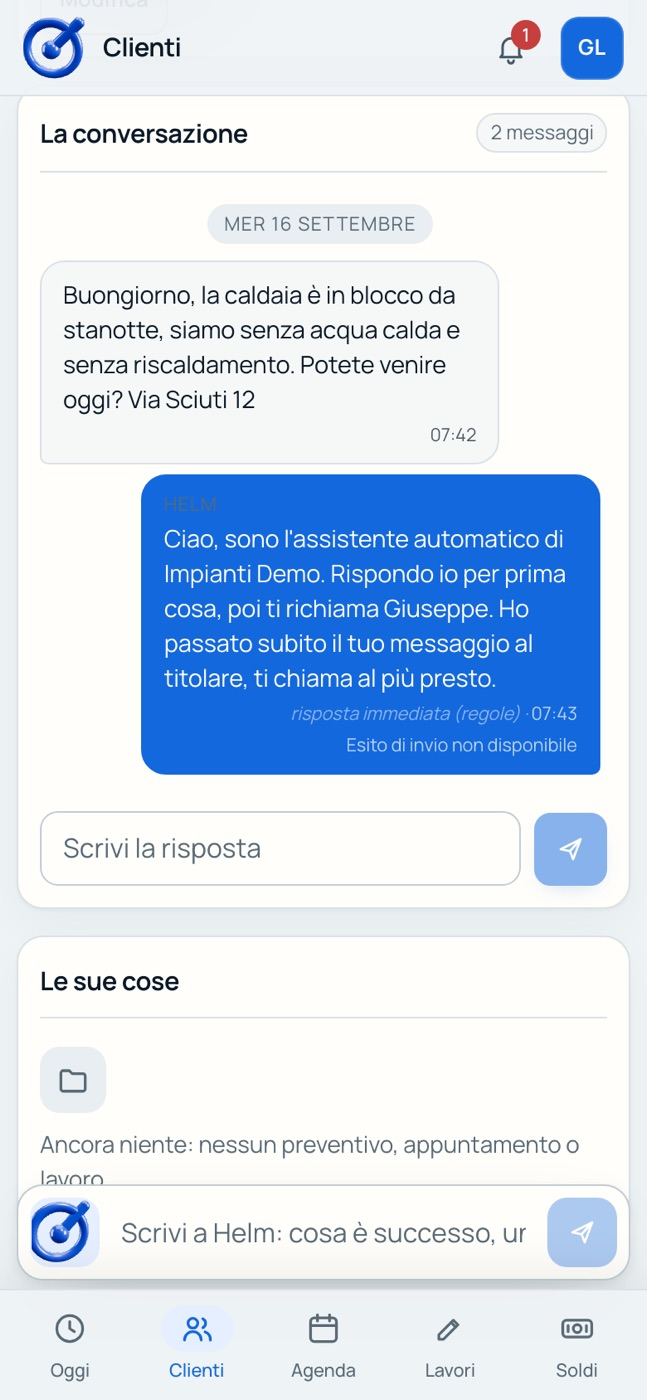
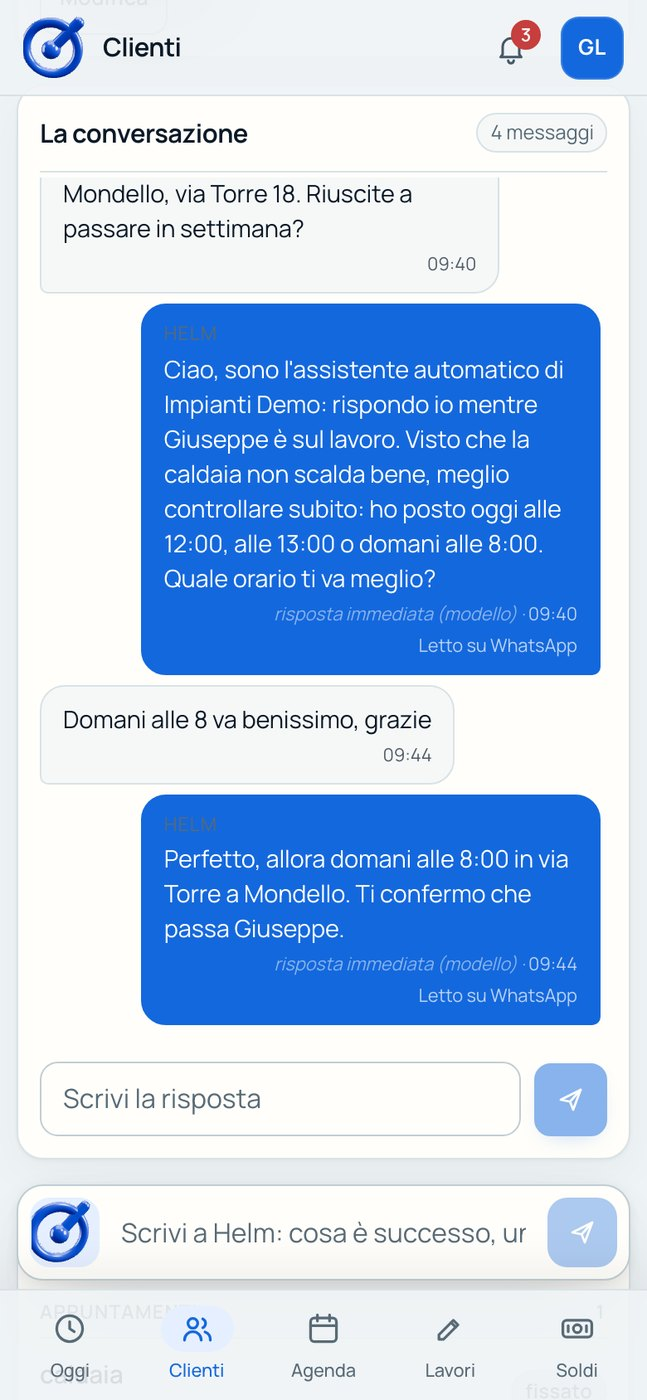
Helm risponde come una persona e fissa l'appuntamento dall'agenda
Nuova schermata del passo 01: conversazione vera fatta da Helm sui dati
di prova, con gli orari liberi proposti e l'appuntamento fissato.

diff --git a/index.html b/index.html
@@ -106,7 +106,7 @@
           <div class="muro-griglia">
             <div class="muro-col">
               <img src="assets/sistemi/helm-oggi.jpg" width="1600" height="1000" alt="" decoding="async" />
-              <img src="assets/sistemi/helm-chat-mob.jpg" width="647" height="1400" alt="" decoding="async" />
+              <img src="assets/sistemi/helm-chat-mob.jpg?v=2" width="647" height="1400" alt="" decoding="async" />
               <img src="assets/lavori/calcolatore-ral.jpg" width="1600" height="900" alt="" decoding="async" />
               <img src="assets/sistemi/casa-vacanze-mob.jpg" width="647" height="1400" alt="" decoding="async" />
             </div>
@@ -132,7 +132,7 @@
               <img src="assets/sistemi/helm-conversazione.jpg" width="1600" height="1000" alt="" decoding="async" />
               <img src="assets/sistemi/casa-vacanze-mob.jpg" width="647" height="1400" alt="" decoding="async" />
               <img src="assets/sistemi/helm-preventivi.jpg" width="1600" height="1000" alt="" decoding="async" />
-              <img src="assets/sistemi/helm-chat-mob.jpg" width="647" height="1400" alt="" decoding="async" />
+              <img src="assets/sistemi/helm-chat-mob.jpg?v=2" width="647" height="1400" alt="" decoding="async" />
             </div>
           </div>
         </div>
@@ -180,8 +180,8 @@
             <li class="passo">
               <p class="passo-n">01 · WhatsApp</p>
               <h3 class="passo-parola">Risponde.</h3>
-              <p class="passo-testo">Risponde su WhatsApp come una persona dell'azienda. Usa il listino, trascrive i vocali e dice subito di essere un assistente automatico.</p>
-              <div class="passo-tel tel"><img src="assets/sistemi/helm-chat-mob.jpg" width="647" height="1400" loading="lazy" decoding="async" alt="Helm dal telefono: la chat col cliente e la risposta dell'assistente" /></div>
+              <p class="passo-testo">Risponde ai clienti su WhatsApp come una persona dell'azienda. Guarda l'agenda, propone gli orari liberi e fissa l'appuntamento da solo.</p>
+              <div class="passo-tel tel"><img src="assets/sistemi/helm-chat-mob.jpg?v=2" width="647" height="1400" loading="lazy" decoding="async" alt="Helm dal telefono: la cliente chiede un intervento, Helm propone tre orari liberi e fissa quello scelto" /></div>
             </li>
             <li class="passo">
               <p class="passo-n">02 · Oggi</p>
@@ -205,7 +205,7 @@
 
           <!-- Su computer un telefono solo, fermo, che cambia schermata a ogni passo -->
           <div class="mirino-tel tel" aria-hidden="true">
-            <img src="assets/sistemi/helm-chat-mob.jpg" width="647" height="1400" loading="lazy" decoding="async" alt="" />
+            <img src="assets/sistemi/helm-chat-mob.jpg?v=2" width="647" height="1400" loading="lazy" decoding="async" alt="" />
             <img src="assets/sistemi/helm-oggi-mob.jpg" width="647" height="1400" loading="lazy" decoding="async" alt="" />
             <img src="assets/sistemi/helm-preventivi-mob.jpg" width="647" height="1400" loading="lazy" decoding="async" alt="" />
             <img src="assets/sistemi/helm-lavori-mob.jpg" width="647" height="1400" loading="lazy" decoding="async" alt="" />
